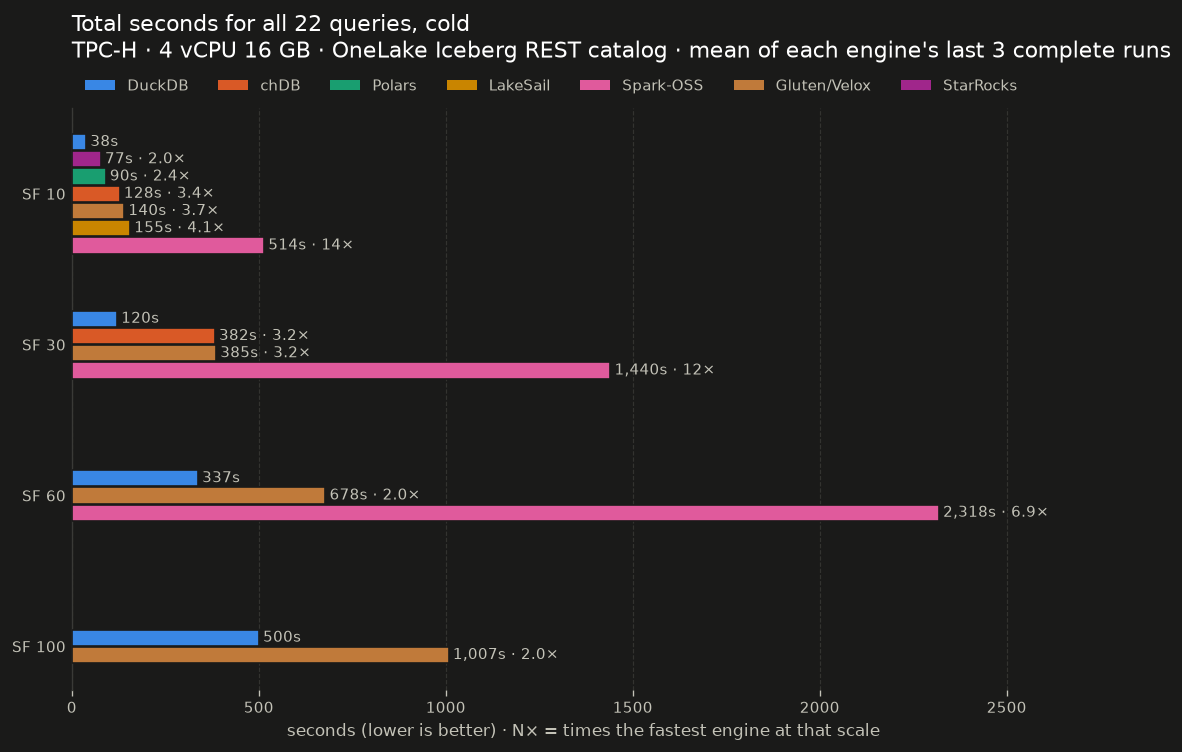
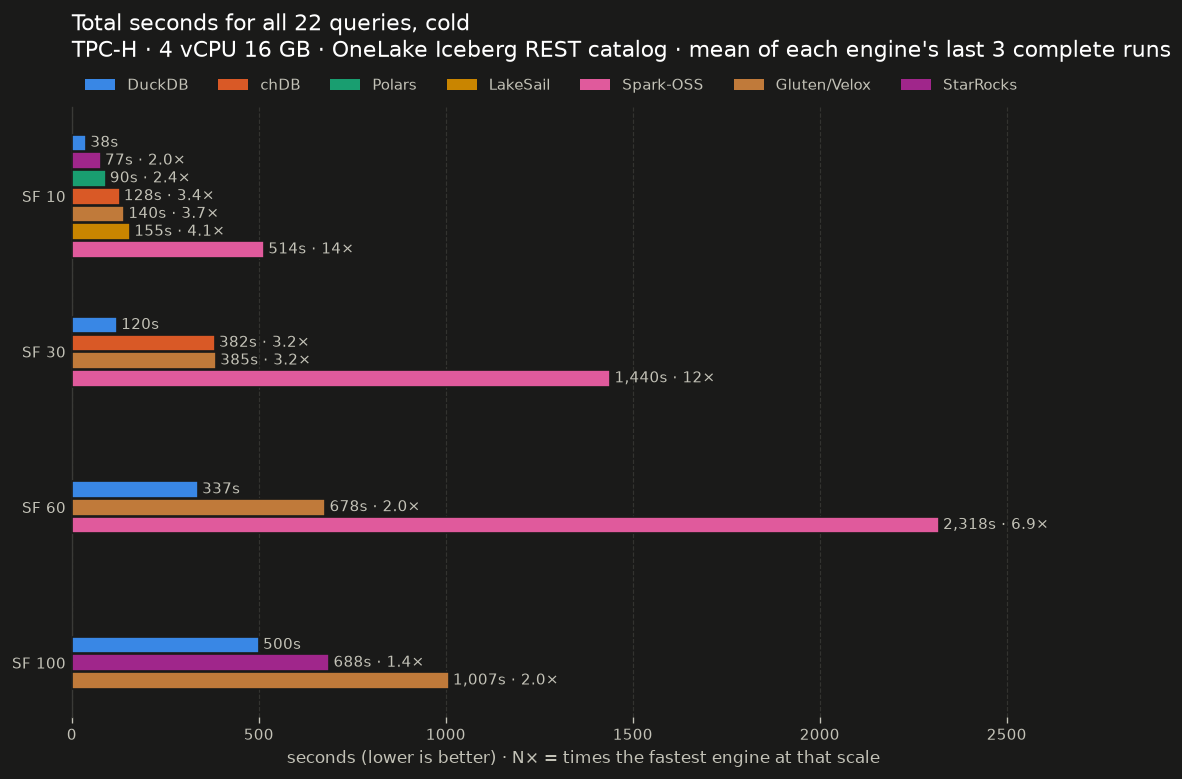
bench: SF=100 results for run 36227787035

diff --git a/docs/RESULTS.md b/docs/RESULTS.md
@@ -51,6 +51,6 @@ Seconds, cold pass. `—` means the query failed; see Failures above.
 
 ## History
 
-874 timed statements across 20 runs.
+897 timed statements across 21 runs.
 Raw data: one immutable JSON per run under [`results/`](../results/), flattened to [`data/tpch_results.csv`](data/tpch_results.csv).
 
